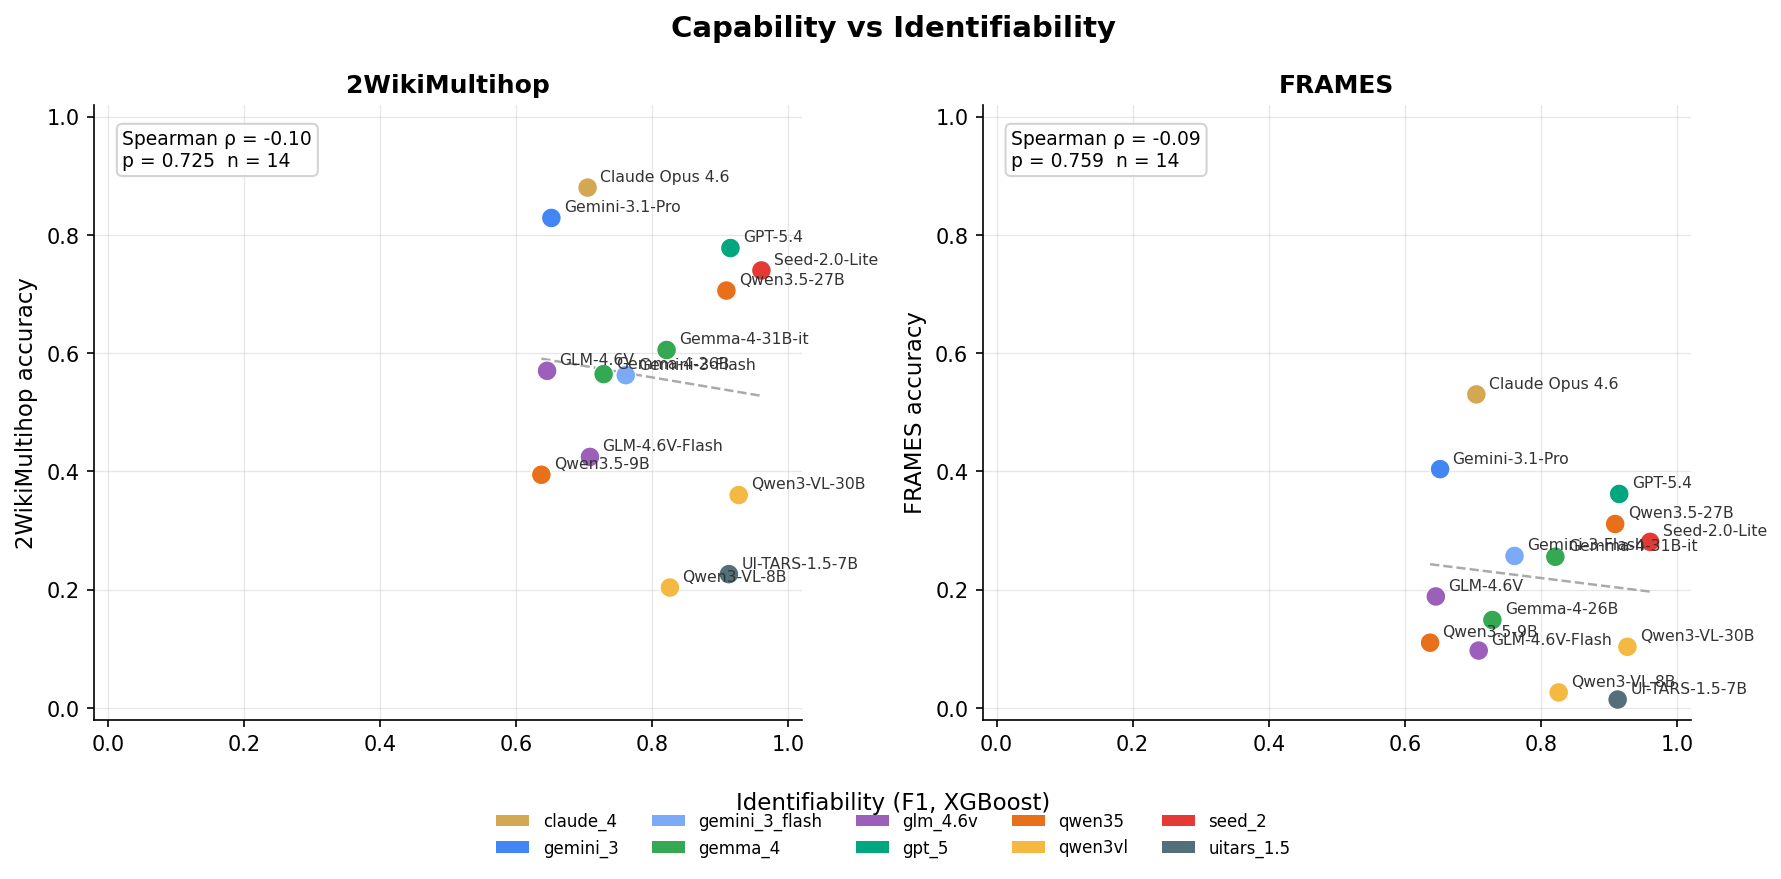
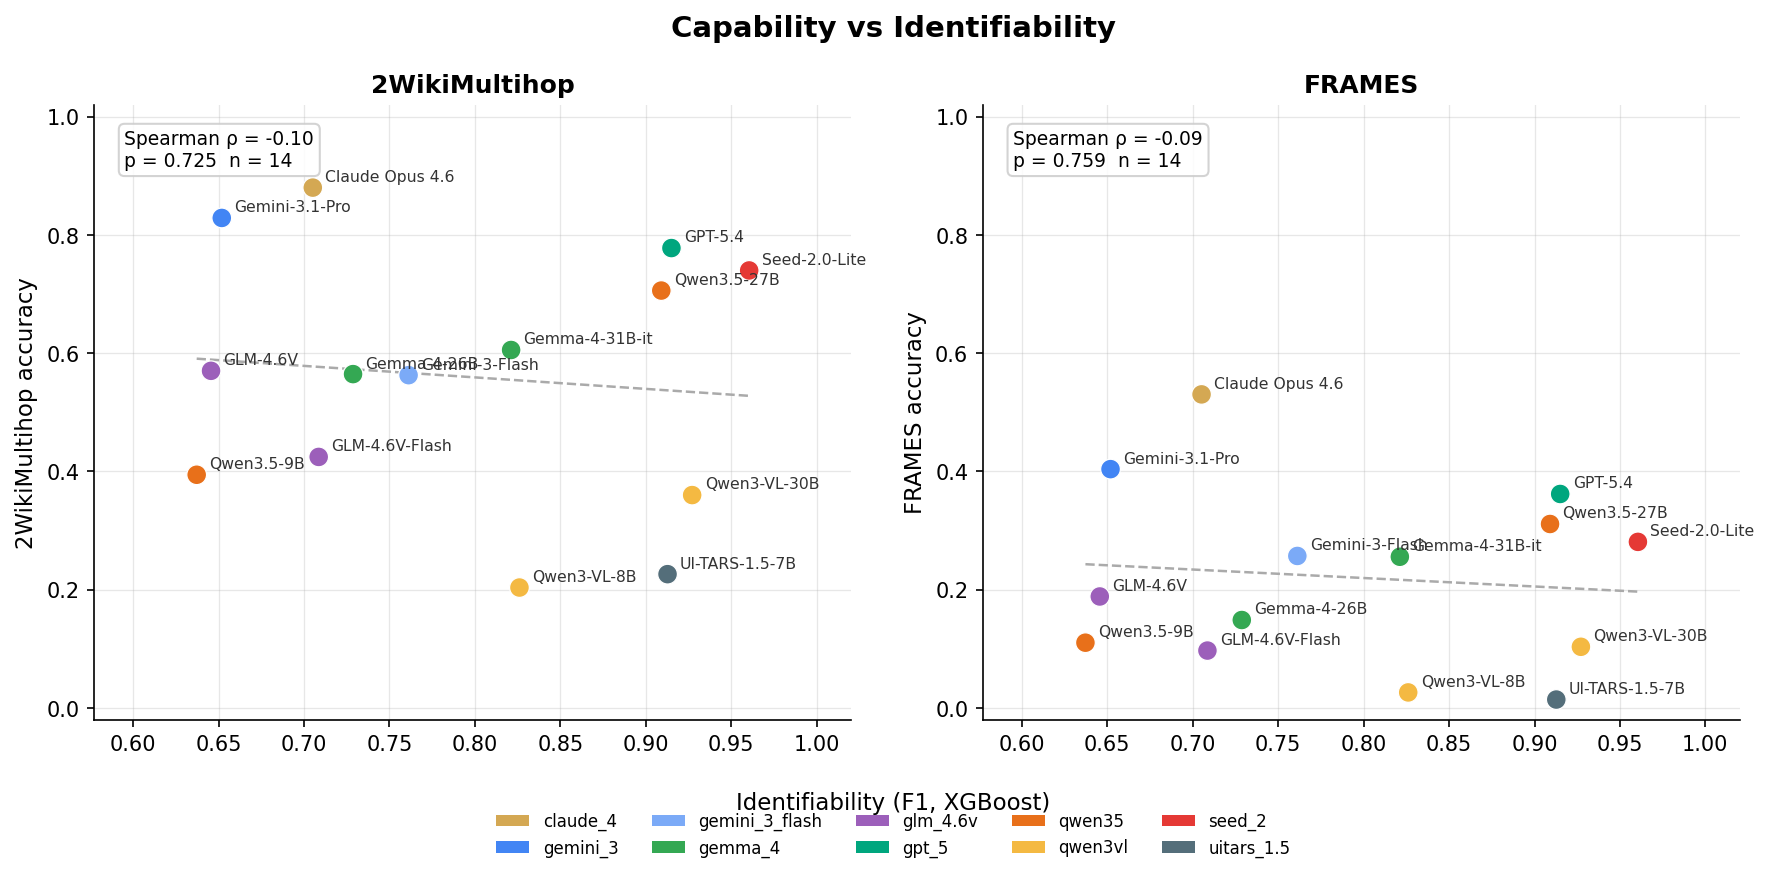
added new scaled image

diff --git a/src/capability_vs_identifiability.py b/src/capability_vs_identifiability.py
@@ -197,7 +197,9 @@ def plot(
                     linewidth=1.2, linestyle="--", zorder=2)
 
         ax.set_ylabel(ds_labels.get(ds, ds), fontsize=11)
-        ax.set_xlim(-0.02, 1.02)
+        all_x = [v for v in identifiability.values() if v is not None]
+        x_min = max(0.0, min(all_x) - 0.06) if all_x else 0.0
+        ax.set_xlim(x_min, 1.02)
         ax.set_ylim(-0.02, 1.02)
         ax.set_title(ds_labels.get(ds, ds).split(" ")[0], fontsize=12, fontweight="bold")
         ax.grid(True, alpha=0.3, linewidth=0.6)
